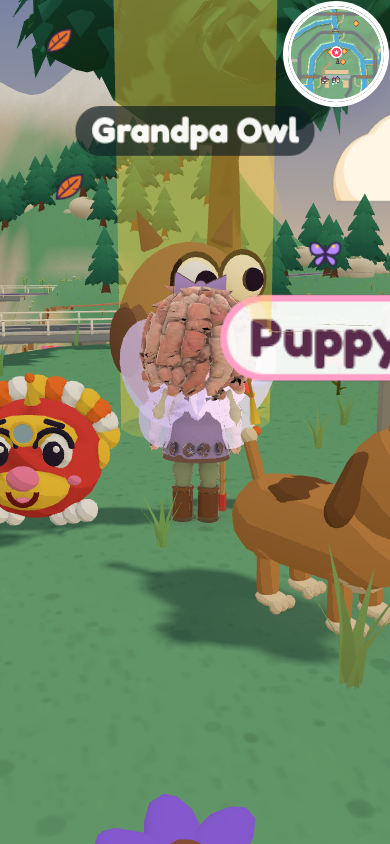
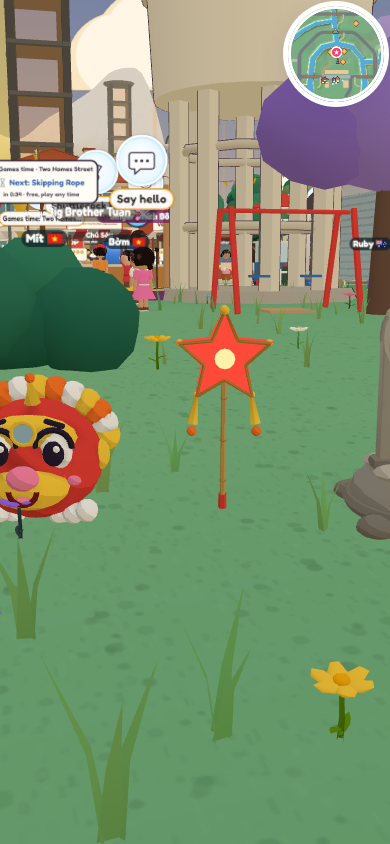
v1.08g props: ready for Release; what changed, check results, assumptions
Claude-Session: https://claude.ai/code/session_01Gw2TZskTpoax6R8hVcvE6c

diff --git a/docs/cores/tasks/v108g/props.md b/docs/cores/tasks/v108g/props.md
@@ -1,3 +1,5 @@
+**ready for Release** (6 Nov 2026 AEDT): branch `work/v108g-props`; 22 props remade in Blender; checks below (stalls red, not from this branch).
+
 # v1.08g helper: story and street props (status)
 
 Branch `work/v108g-props` (from `origin/integrate/v108` at `6fc7bf1e5`). Started 6 Nov 2026 AEDT. Brief:
@@ -29,6 +31,48 @@ Models `models/world/pp-*.glb`, made by `tools/blender/world-props.py`:
 
 Checks, one at a time: story, perf, battery, solid, worldplaces, types, stalls, regions, startup.
 
-## Progress
+## What changed
 
-- Started.
+- `tools/blender/world-props.py` (new): 21 new picture-book models, `models/world/pp-*.glb`, 19 to 86 KB each, 2,200 to
+  7,900 triangles (the stalls and the film bridge are the largest). `tools/make-props.mts` makes and packs them (meshopt);
+  `tools/blender/props-look.py` draws a quick look.
+  - Story, Ha Noi: `pp-starlantern` (the stick and the star's bamboo frame; the paper star stays the game's, with its
+    colour and glow), `pp-stoneturtle`, `pp-lionhead`, `pp-mooncakes`, `pp-thehuc` (film).
+  - Story, Sydney: `pp-ferry`, `pp-gumtree`, `pp-koala`, `pp-harbourbridge` (film). The film's Opera House uses the
+    valley's `lm-opera` (the same code shape).
+  - Street: `pp-pole-traicay`, `-tauhu`, `-bunoc`, `-bunrieu`, `-banhda`, `-cothu` (the poles with their goods in 3D),
+    `pp-stall-bahai`, `-olai`, `-chunam`, `-chutam`, `-cout` (the stalls with their food on the counter), `pp-sizzle`.
+- `js/content/propmodel.ts` (new, in `sw.ts` FILES): `propModel(fallback, name, now)`: worldTag near the child, or the
+  model at once in a film.
+- Swap-ins: `js/content/chapter2props.ts`, `chapter3props.ts` (the gum tree is drawn at size 1 and scaled, so its model
+  takes the same size), `chapter2films.ts`, `chapter3films.ts` (films ask for the models at once), `chapter2hanoi.ts`
+  (the golden turtle keeps its code shape and gold), `js/hawkers.ts`, `js/regions.ts` (the five stalls now tagged
+  `pp-stall-<seller>` instead of the v1.08e `st-<shape>`; Co Thu's pole; the sizzle). The 2D food pictures ride on the
+  code shapes, so they go when the model comes and stay as the fallback.
+- No change to `js/modelkit.ts` and none to the festival helper's files.
+- New check `propsfit` (`tests/props-fit.mts`, in `tests/run.mts`): every prop's model within 20 % of its code shape's box
+  on every side, at its height, turned its way.
+- Pictures: `tests/props-shots.mts` -> `docs/world-models-v108g/props/` (market, hawker, sizzle, hanoi, sydney, bridges;
+  phone 390x844, tablet 820x1180, computer 1280x800; before and after). The story props are shown on a test spot in the
+  valley (in the game they stand in chapter places and films, which a picture cannot reach without playing the story).
+
+## Checks (6 Nov 2026 AEDT, `suite.mts --jobs 1 --only ...`, one at a time)
+
+| Check | Result |
+|---|---|
+| propsfit (new) | pass (22 models) |
+| story | pass |
+| perf | pass (home 167 draws, village 286) |
+| battery | pass |
+| solid | pass |
+| worldplaces | pass |
+| types | pass |
+| regions | pass |
+| startup | pass, first start 1047 KB (base 1043 to 1046 KB; this branch adds about 0.7 KB of source to `regions.ts` and `hawkers.ts`; the brief's 1025 KB was already passed before this branch) |
+| stalls | **fail, not from this branch**: Melbourne kiosk `k_dimsim` 0.6 m from a road (`js/cities.ts`); the same fail with this branch's game files put back to `integrate/v108` |
+
+## Assumed
+
+- The v1.08e `st-*` models of the five Vietnamese stalls are no longer used by them (the files stay; the other markets'
+  stalls still use theirs).
+- The film's coloured sail lights sit on the code sails; the `lm-opera` model's sails may not match them exactly.
